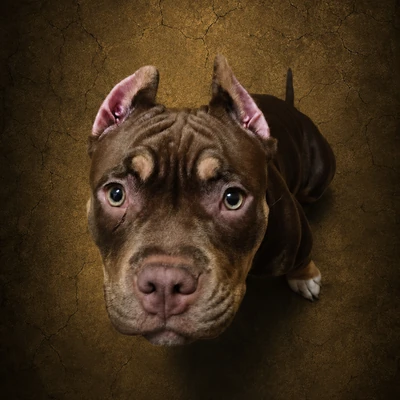
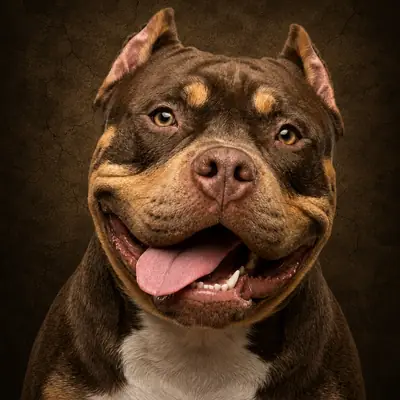
Kontakt page quick contact section

diff --git a/src/components/sections/contact-actions.tsx b/src/components/sections/contact-actions.tsx
@@ -1,0 +1,175 @@
+'use client'
+
+import { useState } from 'react'
+import Image from 'next/image'
+import { Phone, Mail, Navigation } from 'lucide-react'
+import { FaWhatsapp, FaTelegramPlane, FaViber } from 'react-icons/fa'
+import manifest from '@/config/manifest'
+
+const cardClass =
+  'relative overflow-hidden rounded-lg border-2 border-[rgba(200,169,107,0.5)] shadow-[0_8px_32px_rgba(0,0,0,0.5)]'
+
+const linkClass =
+  'flex items-center gap-2.5 rounded-sm border border-transparent bg-transparent px-2 py-1.5 font-cormorant text-[16px] text-white transition-all duration-300 ease-out hover:-translate-y-0.5 hover:border-[#bfa76a]/80 hover:bg-gradient-to-r hover:from-[#bfa76a]/40 hover:via-[#bfa76a]/20 hover:to-transparent hover:text-[#f3df9a] hover:[text-shadow:0_0_12px_rgba(191,167,106,0.65)]'
+
+function CardBg() {
+  return (
+    <div className="absolute inset-0">
+      <Image
+        src={manifest.Background_1}
+        alt=""
+        fill
+        sizes="(max-width: 768px) 100vw, 50vw"
+        className="object-cover object-center"
+      />
+      <div className="absolute inset-0 bg-black/75" />
+    </div>
+  )
+}
+
+function SectionHeader({ title }: { title: string }) {
+  return (
+    <>
+      <p className="pb-1.5 font-cormorant text-[13px] font-semibold uppercase tracking-[0.25em] text-[#f3df9a] [text-shadow:0_0_14px_rgba(191,167,106,0.75)]">
+        {title}
+      </p>
+      <div className="mb-3 h-px w-full bg-gradient-to-r from-transparent via-[#bfa76a]/70 to-transparent shadow-[0_0_14px_rgba(191,167,106,0.55)]" />
+    </>
+  )
+}
+
+export function ContactActionsSection() {
+  const [phone, setPhone] = useState('')
+  const [isSubmitting, setIsSubmitting] = useState(false)
+  const [sent, setSent] = useState(false)
+
+  const handleCallback = async (e: React.FormEvent) => {
+    e.preventDefault()
+    if (phone.replace(/\D/g, '').length < 9) return
+    setIsSubmitting(true)
+    try {
+      const formData = new FormData()
+      formData.append('phone', phone)
+      formData.append('problemDescription', 'Prośba o telefon zwrotny ze strony Kontakt')
+      await fetch('/api/send-email', { method: 'POST', body: formData })
+      setSent(true)
+      setPhone('')
+    } catch {
+      // silent — użytkownik może zadzwonić bezpośrednio
+    } finally {
+      setIsSubmitting(false)
+    }
+  }
+
+  return (
+    <section className="max-w-3xl mx-auto px-4 pt-8 pb-4 md:pt-12 md:pb-6">
+      <div className="grid grid-cols-1 gap-4 md:grid-cols-2">
+
+        {/* LEFT — Szybki kontakt */}
+        <div className={cardClass}>
+          <CardBg />
+          <div className="relative z-10 p-4 md:p-6">
+            <SectionHeader title="Szybki kontakt" />
+
+            <div className="flex flex-col divide-y divide-[#bfa76a]/20">
+              {/* Zadzwoń */}
+              <a
+                href="tel:[phone redacted]"
+                className={`${linkClass} hover:shadow-[0_0_20px_rgba(191,167,106,0.35)]`}
+              >
+                <Phone className="h-[18px] w-[18px] shrink-0 text-[#25D366]" />
+                <span>793 759 262</span>
+              </a>
+
+              {/* WhatsApp — link: https://wa.me/[phone redacted] */}
+              <a
+                href="https://wa.me/48793759262"
+                target="_blank"
+                rel="noopener noreferrer"
+                className={`${linkClass} hover:shadow-[0_0_20px_rgba(37,211,102,0.25)]`}
+              >
+                <FaWhatsapp className="h-[18px] w-[18px] shrink-0 text-[#25D366]" />
+                <span>WhatsApp</span>
+              </a>
+
+              {/* Telegram — link: https://t.me/48793759262 */}
+              <a
+                href="https://t.me/48793759262"
+                target="_blank"
+                rel="noopener noreferrer"
+                className={`${linkClass} hover:shadow-[0_0_20px_rgba(42,171,238,0.25)]`}
+              >
+                <FaTelegramPlane className="h-[18px] w-[18px] shrink-0 text-[#2AABEE]" />
+                <span>Telegram</span>
+              </a>
+
+              {/* Viber — TODO: замени href на реальную ссылку Viber для [phone redacted] */}
+              <a
+                href="viber://chat?number=%2B48793759262"
+                className={`${linkClass} hover:shadow-[0_0_20px_rgba(115,96,242,0.25)]`}
+              >
+                <FaViber className="h-[18px] w-[18px] shrink-0 text-[#7360f2]" />
+                <span>Viber</span>
+              </a>
+
+              {/* E-mail — link: mailto:[email redacted] */}
+              <a
+                href="mailto:[email redacted]"
+                className={`${linkClass} hover:shadow-[0_0_20px_rgba(191,167,106,0.35)]`}
+              >
+                <Mail className="h-[18px] w-[18px] shrink-0 text-[#bfa76a]" />
+                <span>[email redacted]</span>
+              </a>
+
+              {/* Wyznacz trasę — link: Google Maps, Marcina Bukowskiego 174 */}
+              <a
+                href="https://www.google.com/maps/place/Marcina+Bukowskiego+174,+52-418+Wroc%C5%82aw/"
+                target="_blank"
+                rel="noopener noreferrer"
+                className={`${linkClass} hover:shadow-[0_0_20px_rgba(191,167,106,0.35)]`}
+              >
+                <Navigation className="h-[18px] w-[18px] shrink-0 text-[#bfa76a]" />
+                <span>Wyznacz trasę</span>
+              </a>
+            </div>
+          </div>
+        </div>
+
+        {/* RIGHT — Oddzwonimy do Ciebie */}
+        <div className={cardClass}>
+          <CardBg />
+          <div className="relative z-10 flex flex-col p-4 md:p-6">
+            <SectionHeader title="Zostaw numer — oddzwonimy" />
+
+            {sent ? (
+              <p className="py-4 text-center font-cormorant text-[18px] text-[#f3df9a] [text-shadow:0_0_12px_rgba(191,167,106,0.55)]">
+                Dziękujemy! Oddzwonimy wkrótce.
+              </p>
+            ) : (
+              <form onSubmit={handleCallback} className="space-y-3">
+                <input
+                  type="tel"
+                  value={phone}
+                  onChange={e => setPhone(e.target.value)}
+                  placeholder="+48 xxx xxx xxx"
+                  className="w-full rounded-sm border border-[#bfa76a]/40 bg-transparent px-4 py-2 font-inter text-base text-white placeholder:text-white/35 transition-all duration-250 hover:border-[#bfa76a]/60 focus:border-[#bfa76a]/80 focus:shadow-[0_0_8px_rgba(191,167,106,0.3)] focus:outline-none"
+                />
+                <button
+                  type="submit"
+                  disabled={isSubmitting}
+                  className="w-full rounded-sm border border-[#bfa76a]/60 bg-gradient-to-r from-[#bfa76a]/20 via-[#bfa76a]/10 to-transparent px-6 py-2.5 font-cormorant text-[17px] font-semibold tracking-wide text-[#f3df9a] transition-all duration-300 ease-out hover:-translate-y-0.5 hover:border-[#bfa76a]/90 hover:from-[#bfa76a]/40 hover:via-[#bfa76a]/25 hover:to-transparent hover:shadow-[0_0_20px_rgba(191,167,106,0.35)] hover:[text-shadow:0_0_10px_rgba(191,167,106,0.55)] disabled:cursor-not-allowed disabled:opacity-50"
+                >
+                  {isSubmitting ? 'Wysyłanie...' : 'Poproś o telefon'}
+                </button>
+                <p className="text-center font-inter text-[12px] text-white/45">
+                  Oddzwaniamy: pon.–sob. 7:00–21:00
+                </p>
+              </form>
+            )}
+          </div>
+        </div>
+
+      </div>
+    </section>
+  )
+}

diff --git a/src/app/(pl)/kontakt/page.tsx b/src/app/(pl)/kontakt/page.tsx
@@ -1,6 +1,13 @@
 import type { Metadata } from 'next'
+import dynamic from 'next/dynamic'
 import { Header } from '@/components/header'
 import { Footer } from '@/components/footer'
+import { ContactActionsSection } from '@/components/sections/contact-actions'
+import manifest from '@/config/manifest'
+
+const Contact = dynamic(() =>
+  import('@/components/sections/contact').then(mod => mod.Contact)
+)
 
 export const metadata: Metadata = {
   title: 'Kontakt|Serwis komputerów, laptopów i drukarek',
@@ -19,7 +26,19 @@ export default function KontaktPage() {
   return (
     <>
       <Header />
-      <main>
+      <main
+        className="relative isolate overflow-hidden"
+        style={{
+          backgroundImage: `linear-gradient(rgba(0,0,0,0.6), rgba(0,0,0,0.6)), url('${manifest.Background_1}')`,
+          backgroundAttachment: 'fixed',
+          backgroundSize: 'cover',
+          backgroundPosition: 'center',
+        }}
+      >
+        <div className="relative z-10">
+          <ContactActionsSection />
+          <Contact bare={true} />
+        </div>
       </main>
       <Footer />
     </>

diff --git a/src/app/uk/page.tsx b/src/app/uk/page.tsx
@@ -11,8 +11,8 @@ import { ContactUk } from '@/components/sections/contact-uk'
 import manifest from '@/config/manifest'
 
 export const metadata: Metadata = {
-  title: "Сервіс і ремонт комп'ютерів, ноутбуків і принтерів | Omobonus Вроцлав",
-  description: "Професійний сервіс комп'ютерів, ноутбуків і принтерів у Вроцлаві. Діагностика за 15 хв. Повний прайс-лист на сайті.",
+  title: "Ремонт комп'ютерів, ноутбуків і принтерів | Omobonus Вроцлав",
+  description: "✔ Професійний ремонт і сервіс комп’ютерів, ноутбуків, принтерів та МФУ у Вроцлаві ✔ Діагностика за 15 хв ✔ Ціни на сайті ✔ Телефонуйте: 793 759 262",
   alternates: {
     canonical: "https://serwis.omobonus.com.pl/uk",
     languages: {

diff --git a/src/app/uk/uslugi/[slug]/page.tsx b/src/app/uk/uslugi/[slug]/page.tsx
@@ -65,7 +65,7 @@ const headingsUk: Record<string, { h1: string; h2?: string }> = {
 
 const seoMetadataUk: Record<string, { title: string; description: string }> = {
   'serwis-laptopow': {
-    title: 'Сервіс і ремонт ноутбуків',
+    title: 'Сервіс і ремонт ноутбуків у Вроцлаві',
     description: '✔ Професійний сервіс комп\'ютерів, ноутбуків і принтерів у Вроцлаві ✔ Діагностика за 15 хв ✔ Повний прайс- лист на сайті ✔ Запишіться на сервіс! ☎ 793 759 262',
   },
   'serwis-komputerow-stacjonarnych': {